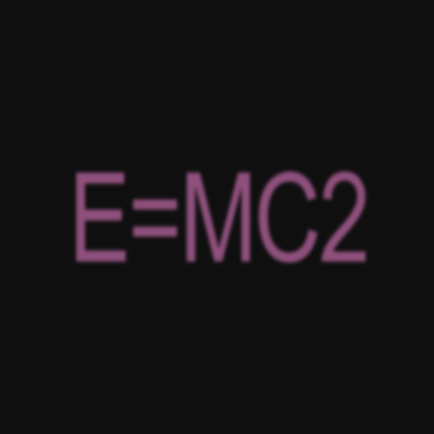
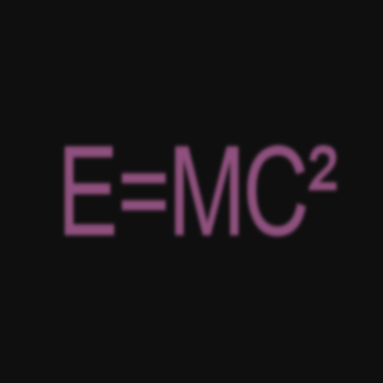
Update README file and image.

Changed region(s): [[0.1436, 0.3734, 0.8903, 0.6319]]

diff --git a/README.md b/README.md
@@ -20,7 +20,7 @@ This project helped me practice clean, interactive design and improve my web dev
 
 Example usage:
 <br>
-E=MC2 *(Studio Album by Mariah Carey)*            |  E=MC2 in BRAT style
+E=MC² *(Studio Album by Mariah Carey)*            |  E=MC² in BRAT style
 :-------------------------:|:-------------------------:
 <img src="custom_brat_generator/app/static/images/EMC2_Artwork.jpg" width="400" alt="E=MC2"/>  |  <img src="custom_brat_generator/app/static/images/EMC2.png" width="400" alt="E=MC2 in BRAT style"/>
 
